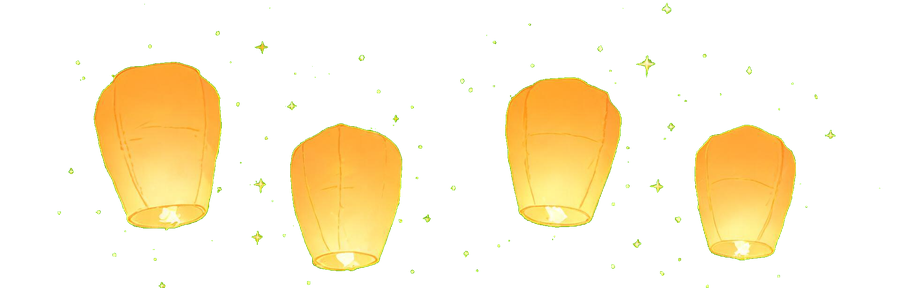
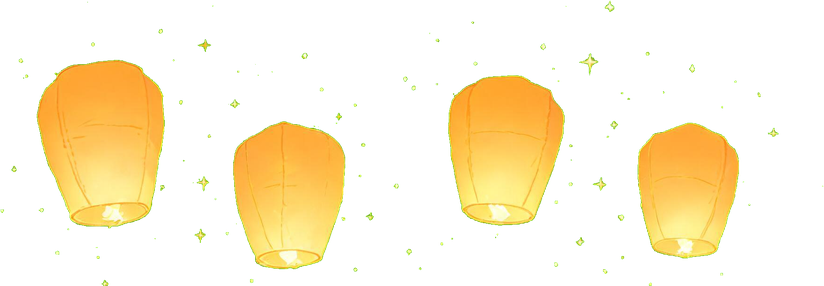
fix(web): 弹窗边框(九宫格平铺)/设置弹窗/顶部排版/货币图标等一批修正
- 弹窗边框改为「均匀可平铺」雕花边框(seedream 重生成并紧贴裁剪)，CSS border-image
  九宫格裁角 + round 平铺，永远贴边不错位；商店/签到/转盘/设置统一。
- 面板背景复用首页水墨山景；关闭 X 归位到右上角；孔明灯放大居中；转盘缩小不再被裁/出滚动条。
- 设置改为弹窗(GamePanel)，首页与对局页共用，叉号关闭，不再跳独立页/返回首页。
- 首页资料条：货币药丸上下堆叠并放大图标，昵称完整显示；对阵条头像/间距收紧，
  「AI大师」完整显示。
- 罗盘计时器进度色与底环区分、线宽不加粗；商店棋盘小样加 viewBox 居中。
- 全站金币/卷轴图标放大约 2 倍。

diff --git a/web/src/styles.css b/web/src/styles.css
@@ -795,15 +795,17 @@ button:disabled {
 .profile .currency {
   margin-left: auto;
   display: flex;
-  gap: 6px;
-  align-items: center;
+  flex-direction: column;
+  gap: 4px;
+  align-items: stretch;
+  flex: none;
 }
 .profile .currency span {
   display: inline-flex;
   align-items: center;
-  gap: 3px;
-  padding: 2px 7px;
-  font-size: 13px;
+  gap: 4px;
+  padding: 2px 9px;
+  font-size: 14px;
   font-weight: 700;
   color: #5c360f;
   background: rgba(255, 242, 208, 0.72);
@@ -811,8 +813,8 @@ button:disabled {
   border-radius: 999px;
 }
 .profile .currency img {
-  width: 17px;
-  height: 17px;
+  width: 22px;
+  height: 22px;
 }
 .ops-row {
   display: flex;
@@ -930,14 +932,14 @@ button:disabled {
 .player-side {
   display: flex;
   align-items: center;
-  gap: 8px;
+  gap: 6px;
   flex: 1 1 0;
   min-width: 0;
   box-sizing: border-box;
   background: var(--panel);
   border: 1.5px solid var(--ink);
   border-radius: 12px;
-  padding: 6px 8px;
+  padding: 5px 7px;
   box-shadow: var(--shadow);
 }
 .player-side.right {
@@ -953,7 +955,7 @@ button:disabled {
 .player-side.right .player-meta { text-align: left; }
 .player-nick { font-size: 15px; font-weight: 700; overflow: hidden; text-overflow: ellipsis; white-space: nowrap; }
 .player-rank { font-size: 12px; color: var(--accent); white-space: nowrap; overflow: hidden; text-overflow: ellipsis; }
-.stone-chip { width: 15px; height: 15px; border-radius: 50%; flex: none; }
+.stone-chip { width: 13px; height: 13px; border-radius: 50%; flex: none; }
 .stone-chip.black { background: radial-gradient(circle at 35% 35%, #555, #111); }
 .stone-chip.white { background: radial-gradient(circle at 35% 35%, #fff, #cfc7b5); border: 1px solid #b3ada1; }
 /* 固定尺寸：无论显示罗盘计时器还是占位空盒，中间列footprint恒定，
@@ -1071,7 +1073,7 @@ button:disabled {
 .delta.up { color: #2ecc71; font-weight: 700; }
 .delta.down { color: #e74c3c; font-weight: 700; }
 .reward-row { display: flex; align-items: center; gap: 6px; font-size: 22px; color: #f5c542; font-weight: 700; }
-.reward-row img { width: 26px; height: 26px; }
+.reward-row img { width: 36px; height: 36px; }
 .ad-double {
   background: linear-gradient(180deg, #ffd76a, #e0a52f);
   border: 2px solid #a86b32; color: #5c360f; font-weight: 700;
@@ -1241,7 +1243,7 @@ button:disabled {
   border: 2px solid #a86b32;
   border-radius: 16px;
 }
-.price-btn img { width: 18px; height: 18px; }
+.price-btn img { width: 26px; height: 26px; }
 .tag-equipped {
   display: inline-block;
   padding: 6px 16px;
@@ -1256,7 +1258,8 @@ button:disabled {
   position: relative;
   width: 72px;
   height: 72px;
-  border-width: 5px;
+  box-sizing: border-box;
+  border-width: 4px;
   border-style: solid;
   border-radius: 8px;
 }
@@ -1301,8 +1304,8 @@ button:disabled {
   align-items: center;
   justify-content: center;
   padding: 16px;
-  background: rgba(20, 14, 6, 0.66);
-  backdrop-filter: blur(2px);
+  /* 背景复用首页水墨山景 + 柔和压暗，让面板更聚焦。 */
+  background: linear-gradient(rgba(20, 14, 6, 0.32), rgba(20, 14, 6, 0.42)), url('/assets/img/bg_home.jpg') center / cover no-repeat;
 }
 .gp-panel {
   position: relative;
@@ -1312,24 +1315,23 @@ button:disabled {
   gap: 12px;
   width: 100%;
   max-width: 460px;
-  max-height: 92vh;
-  padding: 18px 18px 20px;
-  /* 雕花边框用 border-image：四角固定裁切、四边平铺(round 避免接缝错位)。 */
-  border: 28px solid transparent;
-  border-image: url('/assets/img/panel_frame.png') 22% / 28px / 0 round;
-  /* 中心绢帛底只填充边框内(padding box)，不铺到边框下。 */
+  max-height: 94vh;
+  padding: 30px 20px 22px;
+  /* 生成的均匀雕花边框：border-image 九宫格裁切 + round 平铺，永远贴边不错位。 */
+  border: 22px solid transparent;
+  border-image: url('/assets/img/panel_frame.png') 72 / 22px / 0 round;
+  border-radius: 18px;
   background: linear-gradient(180deg, #fbf1d8, #efe0bd);
-  background-clip: padding-box;
 }
-/* 顶部孔明灯装饰：叠在边框上沿、标题之后（不参与边框平铺）。 */
+/* 顶部孔明灯装饰（居中叠在上沿、标题之后）。 */
 .gp-panel::before {
   content: '';
   position: absolute;
-  top: -22px;
+  top: -34px;
   left: 50%;
   transform: translateX(-50%);
-  width: 60%;
-  height: 46px;
+  width: 72%;
+  height: 60px;
   z-index: 1;
   pointer-events: none;
   background: url('/assets/img/panel_top.png') center / contain no-repeat;
@@ -1348,10 +1350,13 @@ button:disabled {
 }
 .gp-close {
   position: absolute;
-  top: -14px;
-  right: -8px;
-  width: 40px;
-  height: 40px;
+  top: 2px;
+  right: 4px;
+  display: flex;
+  align-items: center;
+  justify-content: center;
+  width: 38px;
+  height: 38px;
   padding: 0;
   border-radius: 50%;
   font-size: 18px;
@@ -1359,6 +1364,7 @@ button:disabled {
   background: radial-gradient(circle at 40% 35%, #f4d989, #cf9a34 70%, #8a5a1c);
   border: 3px solid #fbeecb;
   box-shadow: 0 2px 6px rgba(0, 0, 0, 0.4);
+  z-index: 3;
 }
 .gp-currency {
   display: flex;
@@ -1376,7 +1382,7 @@ button:disabled {
   border: 2px solid var(--gold);
   border-radius: 16px;
 }
-.gp-currency img { width: 20px; height: 20px; }
+.gp-currency img { width: 30px; height: 30px; }
 .gp-content {
   display: flex;
   flex-direction: column;
@@ -1428,8 +1434,8 @@ button:disabled {
 /* ===== 幸运转盘 ===== */
 .wheel-wrap {
   position: relative;
-  width: min(78vw, 300px);
-  height: min(78vw, 300px);
+  width: min(64vw, 240px);
+  height: min(64vw, 240px);
   display: flex;
   align-items: center;
   justify-content: center;
@@ -1484,4 +1490,4 @@ button:disabled {
   font-weight: 700;
   color: #5c360f;
 }
-.wheel-cost img { width: 18px; height: 18px; }
+.wheel-cost img { width: 26px; height: 26px; }

diff --git a/web/src/components/SettingsModal.tsx b/web/src/components/SettingsModal.tsx
@@ -1,0 +1,77 @@
+import { useState } from 'react'
+import { getSettings, setSettings, playSfx, startBgm } from '../audio/audio'
+import type { Effect } from '../audio/audio'
+import { THEMES } from '../board/themes'
+import { GamePanel } from './GamePanel'
+
+// 落子特效可选项（值 + 中文名）。
+const EFFECTS: { id: Effect; name: string }[] = [
+  { id: 'none', name: '无' },
+  { id: 'ripple', name: '水波纹' },
+  { id: 'dust', name: '灰尘' },
+]
+
+// 设置弹窗：背景音乐/音效开关与音量 + 落子特效/棋盘主题。改动即时生效并持久化；
+// 用叉号关闭（首页与对局页共用，不再跳转独立设置页/返回首页）。
+export function SettingsModal({ onClose }: { onClose: () => void }) {
+  const [s, setS] = useState(getSettings())
+  const update = (patch: Partial<typeof s>) => {
+    setSettings(patch)
+    setS(getSettings())
+  }
+  return (
+    <GamePanel title="设置" onClose={onClose}>
+      <div className="settings-list">
+        <label className="setting-row">
+          <span>背景音乐</span>
+          <input
+            type="checkbox"
+            checked={s.bgm}
+            onChange={(e) => {
+              update({ bgm: e.target.checked })
+              if (e.target.checked) startBgm()
+            }}
+          />
+        </label>
+        <label className="setting-row">
+          <span>音乐音量</span>
+          <input type="range" min={0} max={1} step={0.05} value={s.bgmVol} onChange={(e) => update({ bgmVol: Number(e.target.value) })} />
+        </label>
+        <label className="setting-row">
+          <span>音效</span>
+          <input type="checkbox" checked={s.sfx} onChange={(e) => update({ sfx: e.target.checked })} />
+        </label>
+        <label className="setting-row">
+          <span>音效音量</span>
+          <input
+            type="range"
+            min={0}
+            max={1}
+            step={0.05}
+            value={s.sfxVol}
+            onChange={(e) => {
+              update({ sfxVol: Number(e.target.value) })
+              playSfx('place')
+            }}
+          />
+        </label>
+        <label className="setting-row">
+          <span>落子特效</span>
+          <select value={s.effect} onChange={(e) => update({ effect: e.target.value as Effect })}>
+            {EFFECTS.map((f) => (
+              <option key={f.id} value={f.id}>{f.name}</option>
+            ))}
+          </select>
+        </label>
+        <label className="setting-row">
+          <span>棋盘主题</span>
+          <select value={s.theme} onChange={(e) => update({ theme: e.target.value })}>
+            {Object.values(THEMES).map((th) => (
+              <option key={th.id} value={th.id}>{th.name}</option>
+            ))}
+          </select>
+        </label>
+      </div>
+    </GamePanel>
+  )
+}

diff --git a/web/src/pages/Home.tsx b/web/src/pages/Home.tsx
@@ -4,6 +4,7 @@ import { me, matchJoin, matchCancel } from '../net/rest'
 import type { User } from '../net/rest'
 import { rankLabel } from '../theme/ranks'
 import { Avatar } from '../components/Avatar'
+import { SettingsModal } from '../components/SettingsModal'
 
 // 首页：LOGO + 资料/货币占位条 + 对战入口 + 运营入口（商店/签到/转盘占位）。
 export function Home({ user }: { user: User }) {
@@ -11,6 +12,7 @@ export function Home({ user }: { user: User }) {
   const [u, setU] = useState<User>(user)
   // 随机匹配「匹配中」浮层：进入后轮询后端匹配池，配上对手再进对局。
   const [matching, setMatching] = useState(false)
+  const [showSettings, setShowSettings] = useState(false)
   const pollRef = useRef<number | undefined>(undefined)
   useEffect(() => {
     me().then(setU).catch(() => {})
@@ -58,7 +60,7 @@ export function Home({ user }: { user: User }) {
           <span className="coin"><img src="/assets/img/icon_coin.png" alt="金币" />{u.coins ?? 0}</span>
           <span className="scroll"><img src="/assets/img/icon_scroll.png" alt="卷轴" />{u.scrolls ?? 0}</span>
         </div>
-        <button className="settings-btn" onClick={() => nav('/settings')} aria-label="设置">
+        <button className="settings-btn" onClick={() => setShowSettings(true)} aria-label="设置">
           <svg viewBox="0 0 24 24" width="20" height="20" fill="#3a240f" aria-hidden="true">
             <path d="M19.14 12.94c.04-.31.06-.63.06-.94s-.02-.63-.06-.94l2.03-1.58a.5.5 0 0 0 .12-.64l-1.92-3.32a.5.5 0 0 0-.6-.22l-2.39.96a7.3 7.3 0 0 0-1.62-.94l-.36-2.54A.5.5 0 0 0 13.4 2h-3.84a.5.5 0 0 0-.5.42l-.36 2.54c-.59.24-1.13.56-1.62.94l-2.39-.96a.5.5 0 0 0-.6.22L1.77 8.48a.5.5 0 0 0 .12.64l2.03 1.58c-.04.31-.06.63-.06.94s.02.63.06.94l-2.03 1.58a.5.5 0 0 0-.12.64l1.92 3.32c.14.24.42.32.66.22l2.39-.96c.49.38 1.03.7 1.62.94l.36 2.54c.05.24.25.42.5.42h3.84c.25 0 .45-.18.5-.42l.36-2.54c.59-.24 1.13-.56 1.62-.94l2.39.96c.24.1.52.02.66-.22l1.92-3.32a.5.5 0 0 0-.12-.64l-2.03-1.58ZM12 15.5A3.5 3.5 0 1 1 12 8.5a3.5 3.5 0 0 1 0 7Z" />
           </svg>
@@ -86,6 +88,7 @@ export function Home({ user }: { user: User }) {
           </div>
         </div>
       )}
+      {showSettings && <SettingsModal onClose={() => setShowSettings(false)} />}
     </div>
   )
 }

diff --git a/web/src/pages/Game.tsx b/web/src/pages/Game.tsx
@@ -18,6 +18,7 @@ import { PlayerBar, type PlayerInfo } from '../components/PlayerBar'
 import { Banner } from '../components/Banner'
 import { RankUpOverlay } from '../components/RankUpOverlay'
 import { rankLabel, rankGroup, rankThreshold } from '../theme/ranks'
+import { SettingsModal } from '../components/SettingsModal'
 
 // 对局页：人机模式驱动 AI Web Worker；真人模式持有唯一的 WebSocket 连接。
 export function Game() {
@@ -67,6 +68,7 @@ export function Game() {
   // 看广告双倍：广告模拟播放中 / 已翻倍（每局仅一次）。
   const [adPlaying, setAdPlaying] = useState(false)
   const [doubled, setDoubled] = useState(false)
+  const [showSettings, setShowSettings] = useState(false)
 
   // 统一结算：只结算一次；播放音效、（人机）上报结果得到经验增量；不再直接跳转。
   // 若当前存在获胜连线（winLine），交由 BoardCanvas 的 onWinAnimationEnd 在动画结束后展示弹窗；
@@ -422,7 +424,7 @@ export function Game() {
           {g.turn === g.myColor ? '轮到你落子' : '对方思考中…'}
         </span>
         <GameMenu
-          onSettings={() => nav('/settings')}
+          onSettings={() => setShowSettings(true)}
           actions={[
             ...(st.mode === 'ai' && !previewSteps
               ? [{ label: '提示', onClick: onHint }, { label: '预演', onClick: onPreview }, { label: '悔棋', onClick: onUndoAi }]
@@ -435,6 +437,7 @@ export function Game() {
           ]}
         />
       </div>
+      {showSettings && <SettingsModal onClose={() => setShowSettings(false)} />}
     </div>
   )
 }

diff --git a/web/src/components/CompassTimer.tsx b/web/src/components/CompassTimer.tsx
@@ -13,13 +13,14 @@ export function CompassTimer({
 }) {
   const R = 21
   const C = 2 * Math.PI * R
-  const color = level === 'danger' ? '#c0392b' : level === 'warn' ? '#d97706' : '#c8912f'
+  // 进度颜色与底环区分：底环用浅色轨道，进度用亮色（正常金/警告橙/危险红），线宽一致不加粗。
+  const color = level === 'danger' ? '#e0503a' : level === 'warn' ? '#f0a020' : '#ffd24a'
   return (
     <div className={`compass compass-${level}`}>
       <svg width="52" height="52" viewBox="0 0 52 52">
-        <circle cx="26" cy="26" r={R} fill="rgba(58,44,26,0.85)" stroke="#c8912f" strokeWidth="3" />
+        <circle cx="26" cy="26" r={R} fill="rgba(58,44,26,0.85)" stroke="rgba(246,236,216,0.28)" strokeWidth="3" />
         <circle
-          cx="26" cy="26" r={R} fill="none" stroke={color} strokeWidth="4"
+          cx="26" cy="26" r={R} fill="none" stroke={color} strokeWidth="3"
           strokeDasharray={C} strokeDashoffset={C * (1 - progress)}
           transform="rotate(-90 26 26)" strokeLinecap="round"
         />

diff --git a/web/src/pages/Shop.tsx b/web/src/pages/Shop.tsx
@@ -95,7 +95,7 @@ function ItemPreview({ item }: { item: ShopItem }) {
     const at = (i: number) => m + i * step
     const lines = Array.from({ length: n }, (_, i) => i)
     return (
-      <svg className="board-swatch" width={size} height={size} style={{ background: t.boardFace, borderColor: t.frameBase }}>
+      <svg className="board-swatch" width={size} height={size} viewBox={`0 0 ${size} ${size}`} style={{ background: t.boardFace, borderColor: t.frameBase }}>
         {lines.map((i) => (
           <line key={`h${i}`} x1={m} y1={at(i)} x2={size - m} y2={at(i)} stroke={t.line} strokeWidth={1} />
         ))}

diff --git a/web/src/components/PlayerBar.tsx b/web/src/components/PlayerBar.tsx
@@ -36,7 +36,7 @@ export function PlayerBar({
 function PlayerSide({ p, active, side }: { p: PlayerInfo; active: boolean; side: 'left' | 'right' }) {
   return (
     <div className={`player-side ${side} ${active ? 'active' : ''}`}>
-      <Avatar src={`/assets/img/${p.avatar}.png`} size={40} />
+      <Avatar src={`/assets/img/${p.avatar}.png`} size={36} />
       <div className="player-meta">
         <div className="player-nick">{p.nickname}</div>
         <div className="player-rank">{p.rankLabel}</div>
